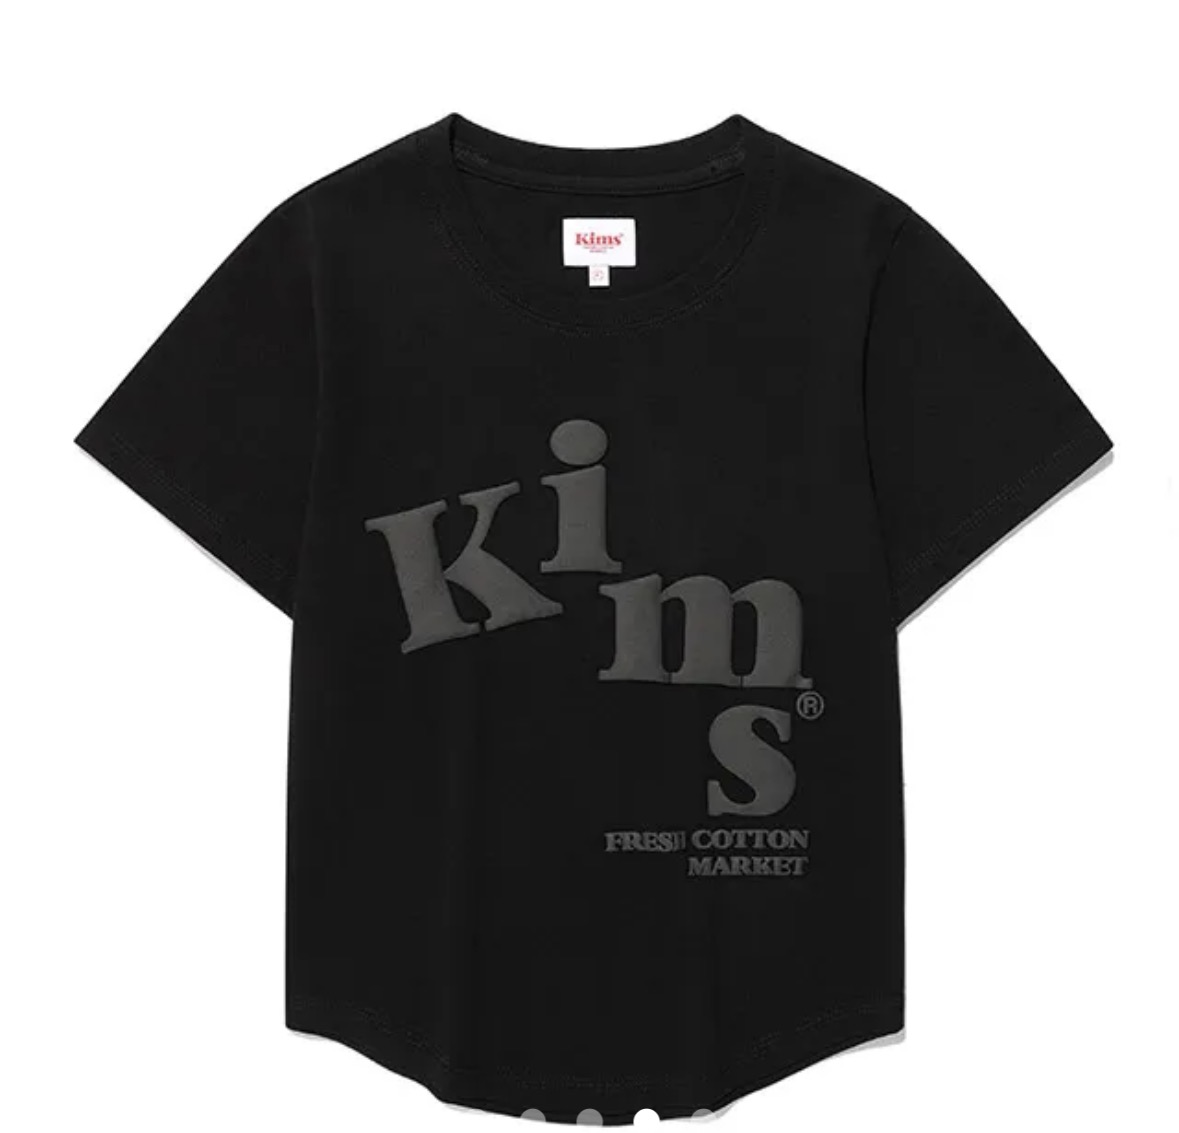
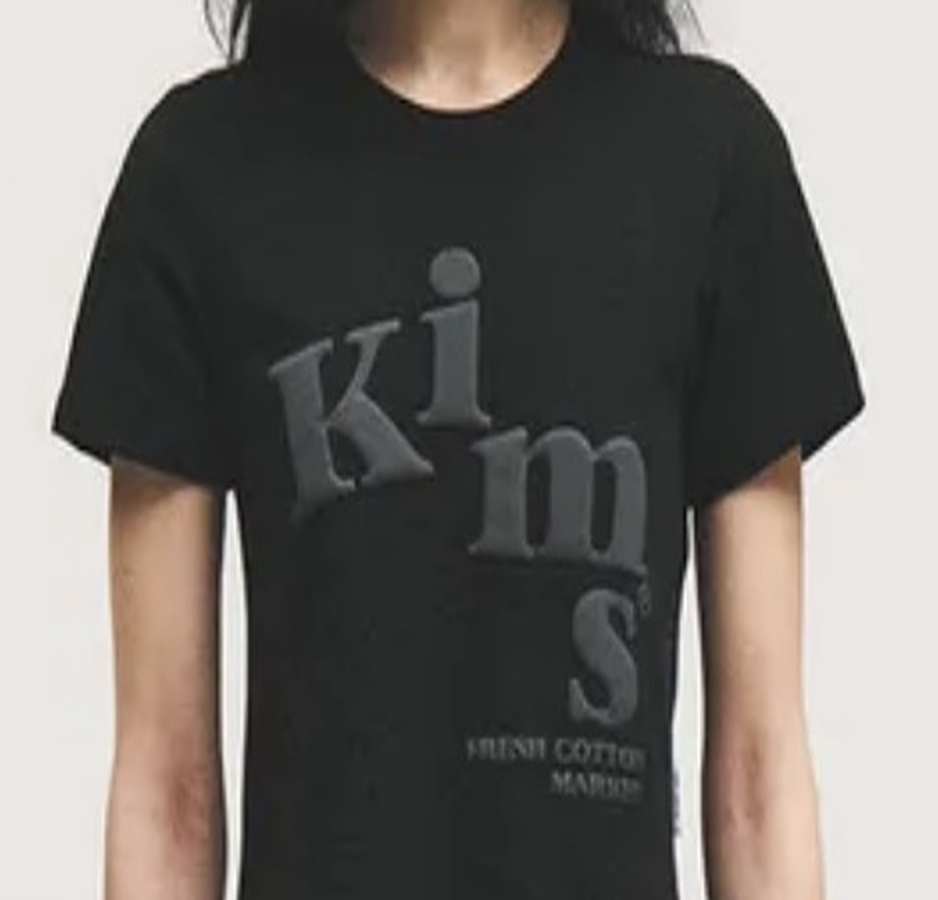
Use on-body Kims photo and keep slim/crop wear fit
Switch the Kims front fixture to the worn torso photo, preserve
baby-tee circumference/length (no +4 ease / no length=54 floor),
and only soft-floor extreme undersize chests.

diff --git a/tests/test_pipeline_unit.py b/tests/test_pipeline_unit.py
@@ -68,8 +68,8 @@ class MeasureFusionTests(unittest.TestCase):
         self.assertIn("shoulder", ctx.manifest.measurements)
         self.assertTrue(any("기본값" in w for w in ctx.result.warnings))
 
-    def test_flat_chest_auto_doubled_and_ease(self):
-        """사이즈표 단면 가슴(43) → 둘레 + 아바타 ease 자동 적용."""
+    def test_flat_chest_auto_doubled_keeps_slim_fit(self):
+        """사이즈표 단면 가슴(43) → 둘레. 슬림/베이비티는 ease로 부풀리지 않음."""
         from models.fitting_model import normalize_garment_measurements_for_wear
 
         # height 160 → avatar M (chest 88, shoulder 45)
@@ -79,25 +79,25 @@ class MeasureFusionTests(unittest.TestCase):
             height=160,
             weight=50,
         )
-        self.assertAlmostEqual(out["chest"], 92.0, places=1)  # max(43*2, 88+4)
+        self.assertAlmostEqual(out["chest"], 86.0, places=1)  # 43*2, no +ease
         self.assertAlmostEqual(out["shoulder"], 44.0, places=1)  # floor avatar-1
-        self.assertAlmostEqual(out["length"], 54.0, places=1)
+        self.assertAlmostEqual(out["length"], 51.0, places=1)  # crop kept
         self.assertAlmostEqual(out["sleeve"], 17.0, places=1)
         self.assertTrue(any("단면→둘레" in n for n in notes))
-        self.assertTrue(any("ease" in n for n in notes))
+        self.assertFalse(any("ease" in n for n in notes))
 
-    def test_flat_chest_avatar_s_ease(self):
+    def test_flat_chest_soft_floor_only_when_extreme(self):
         from models.fitting_model import normalize_garment_measurements_for_wear
 
+        # avatar S chest 83; chart 35 flat → 70 < 83-4=79 → soft floor
         out, notes = normalize_garment_measurements_for_wear(
-            {"chest": 43.0, "shoulder": 37.5, "length": 51.0},
+            {"chest": 35.0, "shoulder": 37.5, "length": 51.0},
             garment_type="tshirt",
             height=155,
             weight=48,
         )
-        self.assertAlmostEqual(out["chest"], 87.0, places=1)  # max(86, 83+4)
-        self.assertAlmostEqual(out["shoulder"], 39.0, places=1)
-        self.assertTrue(any("단면→둘레" in n for n in notes))
+        self.assertAlmostEqual(out["chest"], 79.0, places=1)
+        self.assertTrue(any("soft-floor" in n for n in notes))
 
     def test_circumference_chest_not_doubled(self):
         from models.fitting_model import normalize_garment_measurements_for_wear
@@ -129,7 +129,8 @@ class MeasureFusionTests(unittest.TestCase):
             output_dir=os.path.join(ROOT, "outputs", "_test_job_norm"),
         )
         ctx = measure_fusion.run(ctx)
-        self.assertGreaterEqual(ctx.manifest.measurements["chest"], 86.0)
+        self.assertAlmostEqual(ctx.manifest.measurements["chest"], 86.0, places=1)
+        self.assertAlmostEqual(ctx.manifest.measurements["length"], 51.0, places=1)
         self.assertTrue(ctx.result.fit.get("normalize_notes"))
         self.assertEqual(
             ctx.extras["measurement_sources"].get("chest"),

diff --git a/models/fitting_model.py b/models/fitting_model.py
@@ -122,7 +122,8 @@ def normalize_garment_measurements_for_wear(
     """사이즈표/입력 치수를 아바타 착용용 라벨 cm으로 정규화.
 
     - 한국 쇼핑몰 흔한 가슴·허리·엉덩이 *단면* → 둘레(×2) 자동 판별
-    - 아바타 치수 대비 최소 ease 확보 (너무 타이트하면 메쉬가 과수축됨)
+    - 상의: 슬림/베이비티는 타이트 착용을 유지 (과도한 ease·기장 하한 금지)
+    - 어깨만 아바타에 맞춰 메쉬가 몸에서 뜨지 않게 보정
     """
     out = {k: float(v) for k, v in (measurements or {}).items() if v is not None}
     notes: list[str] = []
@@ -145,25 +146,26 @@ def normalize_garment_measurements_for_wear(
 
     if not lower:
         _maybe_double_flat("chest", 32.0, 58.0)
-        # 착용 ease: 옷 가슴 ≥ 아바타 가슴 + 여유
+        # 니트/슬림 티: 차트 둘레를 존중. 아바타보다 너무 작을 때만
+        # 극단 수축 방지용 soft floor (ease 없음 — 베이비티는 타이트가 정상).
         if "chest" in out:
-            ease = 4.0
-            floor = float(avatar["chest"]) + ease
-            if out["chest"] < floor:
+            soft_floor = float(avatar["chest"]) - 4.0
+            if out["chest"] < soft_floor:
                 notes.append(
-                    f"착용 ease: chest {out['chest']}→{floor} (avatar {avatar['chest']}+{ease:.0f})"
+                    f"착용 soft-floor: chest {out['chest']}→{soft_floor} "
+                    f"(avatar {avatar['chest']}-4)"
                 )
-                out["chest"] = floor
+                out["chest"] = soft_floor
         if "shoulder" in out:
             floor_s = float(avatar["shoulder"]) - 1.0
             if out["shoulder"] < floor_s:
                 notes.append(f"shoulder 착용 보정 {out['shoulder']}→{floor_s}")
                 out["shoulder"] = floor_s
         if "length" in out and g in {"tshirt", "tee", "top", "shirt", "blouse"}:
-            # 극단 크롭은 템플릿 length_min 과수축 → 착용 데모용 하한
-            if out["length"] < 54.0:
-                notes.append(f"length 착용 하한 {out['length']}→54")
-                out["length"] = 54.0
+            # 크롭/베이비티 기장 유지. 템플릿 붕괴만 막는 soft min.
+            if out["length"] < 48.0:
+                notes.append(f"length soft-floor {out['length']}→48")
+                out["length"] = 48.0
     else:
         _maybe_double_flat("waist", 28.0, 55.0)
         _maybe_double_flat("hip", 30.0, 60.0)
